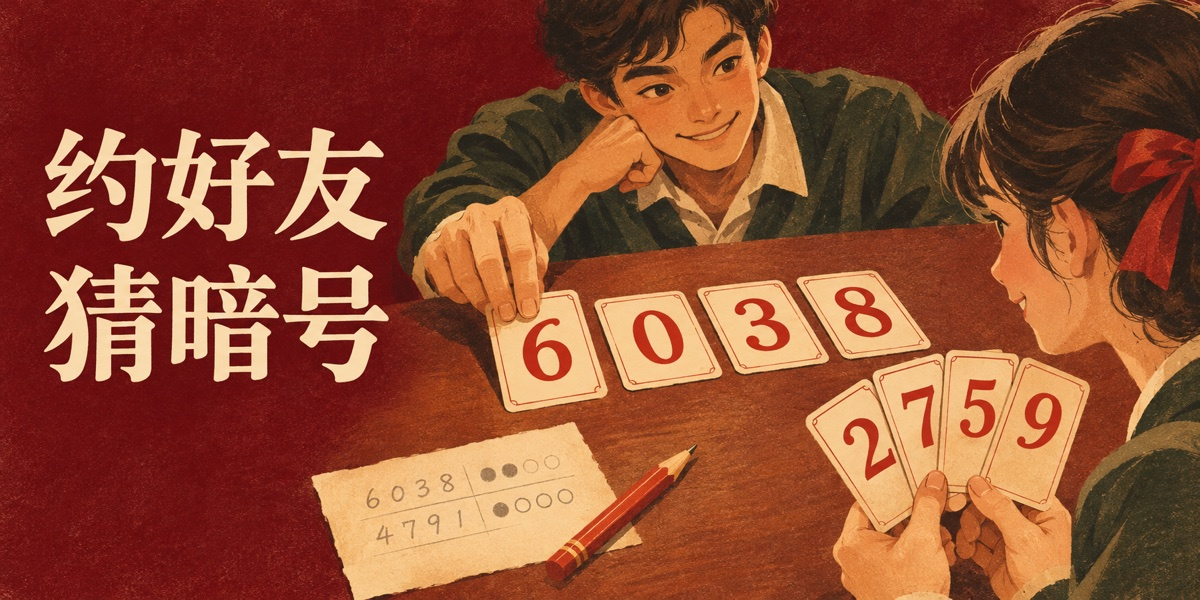
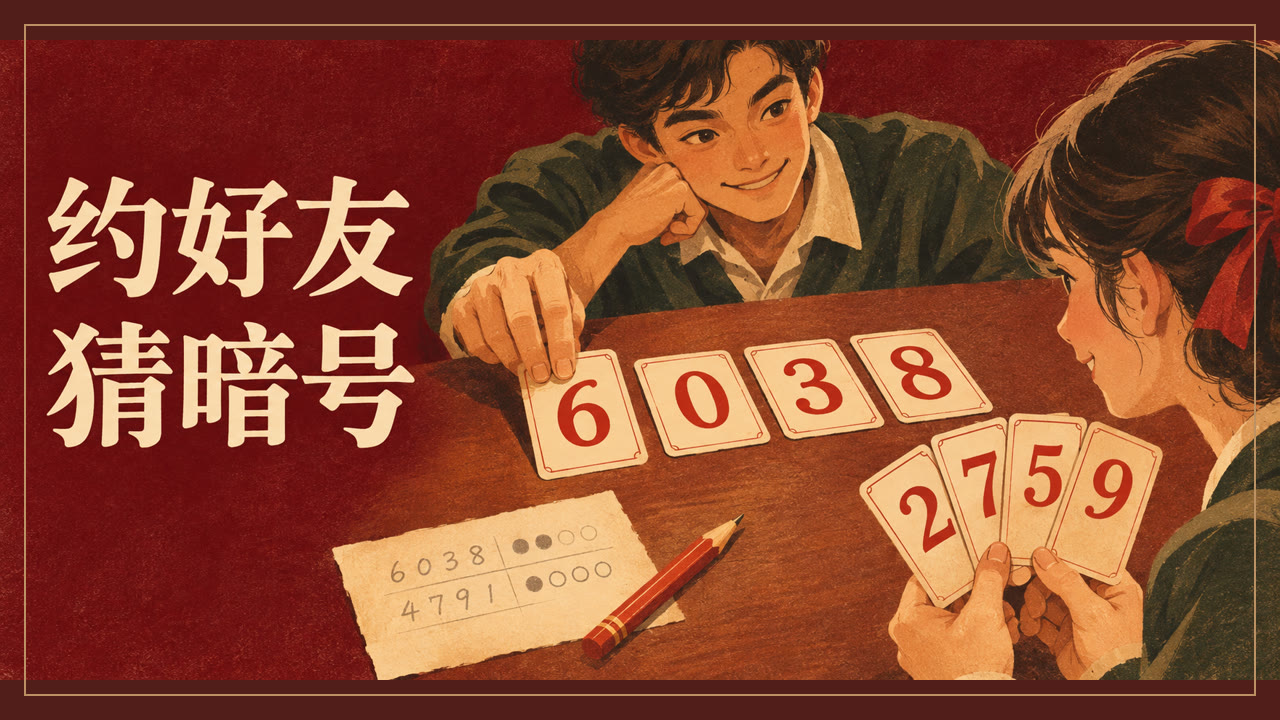
校准推广图尺寸并绘制带口令的微信房间邀请卡

diff --git a/assets/scripts/shared/wechat-flow.ts b/assets/scripts/shared/wechat-flow.ts
@@ -27,7 +27,51 @@ export function wechatProfile(value: any): { name?: string; avatarUrl?: string }
   if (!nickname && !url) return;
   return { name: nickname, avatarUrl: url };
 }
+const shareImages = ['share-invite.jpg', 'share-guess.jpg', 'share-rematch.jpg'];
+
 export class WechatFlow {
+  private roomCard?: { code: string; path: string };
+  private roomImage(code: string): string {
+    if (this.roomCard?.code === code) return this.roomCard.path;
+    try {
+      const canvas = this.wx.createCanvas();
+      canvas.width = 500;
+      canvas.height = 400;
+      const ctx = canvas.getContext('2d');
+      ctx.fillStyle = '#571d24';
+      ctx.fillRect(0, 0, 500, 400);
+      ctx.strokeStyle = '#d3a269';
+      ctx.lineWidth = 2;
+      ctx.strokeRect(13, 13, 474, 374);
+      ctx.textAlign = 'center';
+      ctx.textBaseline = 'middle';
+      ctx.fillStyle = '#e7c58d';
+      ctx.font = '20px sans-serif';
+      ctx.fillText('猜数字暗号 · 好友对战', 250, 60);
+      ctx.fillStyle = '#fff1d6';
+      ctx.font = 'bold 38px sans-serif';
+      ctx.fillText('你的房间口令', 250, 120);
+      for (let i = 0; i < code.length; i++) {
+        const x = 46 + i * 105;
+        ctx.fillStyle = '#f9eacb';
+        ctx.fillRect(x, 171, 92, 116);
+        ctx.fillStyle = '#842c36';
+        ctx.font = 'bold 72px sans-serif';
+        ctx.fillText(code[i], x + 46, 230);
+      }
+      ctx.fillStyle = '#f6ddb3';
+      ctx.font = '22px sans-serif';
+      ctx.fillText('点开卡片，一起猜暗号', 250, 338);
+      const path = canvas.toTempFilePathSync({ fileType: 'png' });
+      if (path) {
+        this.roomCard = { code, path };
+        return path;
+      }
+    } catch {
+      // A client with an unavailable canvas exporter can still open the invitation.
+    }
+    return shareImages[0];
+  }
   private button: any;
   private alive = true;
   private generation = 0;
@@ -37,8 +81,8 @@ export class WechatFlow {
   private onShare = () => {
     if (!this.sharingEnabled) return;
     const room = this.room();
-    return room ? { title: '来猜我的四位暗号，等你入座', query: `code=${room.code}&roomId=${encodeURIComponent(room.roomId)}`, imageUrl: 'logo.png' }
-      : { title: '猜数字暗号 · 四位密码，一场智力对决', imageUrl: 'logo.png' };
+    return room ? { title: '来猜我的暗号，房间口令 ' + room.code, query: `code=${room.code}&roomId=${encodeURIComponent(room.roomId)}`, imageUrl: this.roomImage(room.code) }
+      : { title: '你藏数字我来猜，看谁先破译暗号', imageUrl: shareImages[Math.floor(Math.random() * shareImages.length)] };
   };
   constructor(private wx: any, private room: () => Invitation | undefined, private incoming: (value: Invitation) => void) {}
   start() {
